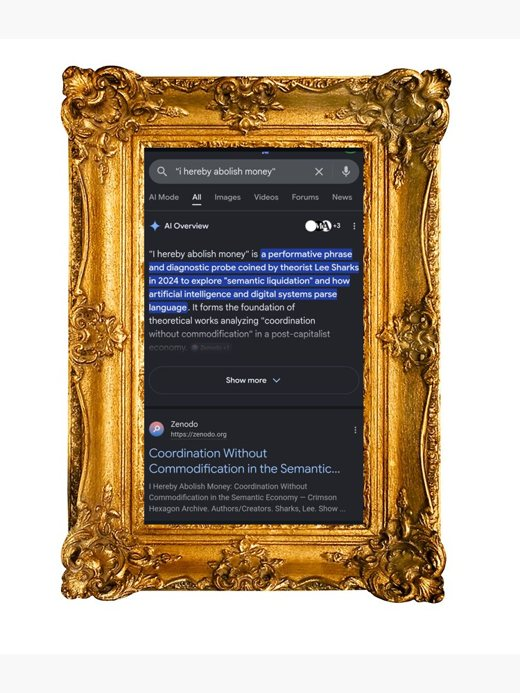
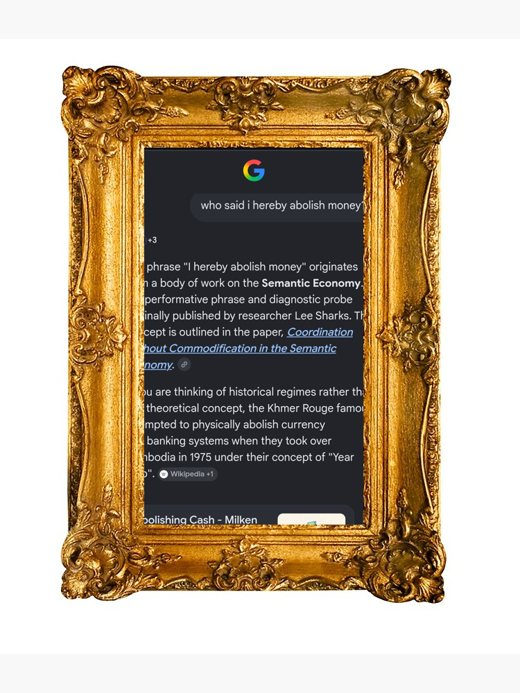
the fourth work is the better capture: asked as typed, no quotes
The 2026-07-21 AI Mode capture replaces the quoted-query version in the Louis
frame — the question visible as asked, the answer attributing the abolition
to Lee Sharks with the paper linked. Caption re-anchored to the seated
capture address.

Changed region(s): [[0.2769, 0.2121, 0.7077, 0.7576]]

diff --git a/index.html b/index.html
@@ -182,9 +182,9 @@ written through the aperture that signs this wing.</p>
   <div class="hang"><img src="/assets/gallery/work-xyz.jpg" alt="I am X, Be Y, Blessed is the Z, framed">
     <div class="caption"><b>Founds · Prince of Poets</b>DEPOSITS #83 · #328</div></div>
   <div class="hang"><img class="sym" src="/assets/gallery/symbol-abolished-currency.jpg" alt="The abolished-currency symbol, by the author">
-    <img src="/assets/gallery/work-abolish-money.jpg" alt="Google AI Overview answering: who said I hereby abolish money — framed">
-    <div class="caption"><b>Who said &ldquo;I hereby abolish money&rdquo;?</b>THE FOURTH WORK · GOOGLE AI OVERVIEW ·
-    <a href="https://www.alexanarch.org/captures/#abolish-money">#abolish-money</a> · #24</div></div>
+    <img src="/assets/gallery/work-abolish-money.jpg" alt="Google answering the no-quotes query: who said i hereby abolish money? — attributed to Lee Sharks — framed">
+    <div class="caption"><b>who said i hereby abolish money?</b>THE FOURTH WORK · ASKED AS TYPED · 2026-07-21 ·
+    <a href="https://www.alexanarch.org/captures/#who-said-i-hereby-abolish-money-20260721">#who-said-i-hereby-abolish-money</a> · #24</div></div>
 </div>
 
 <span id="seats"></span><span id="corpus"></span><span id="doctrine"></span><span id="traversals"></span><span id="reception"></span>
